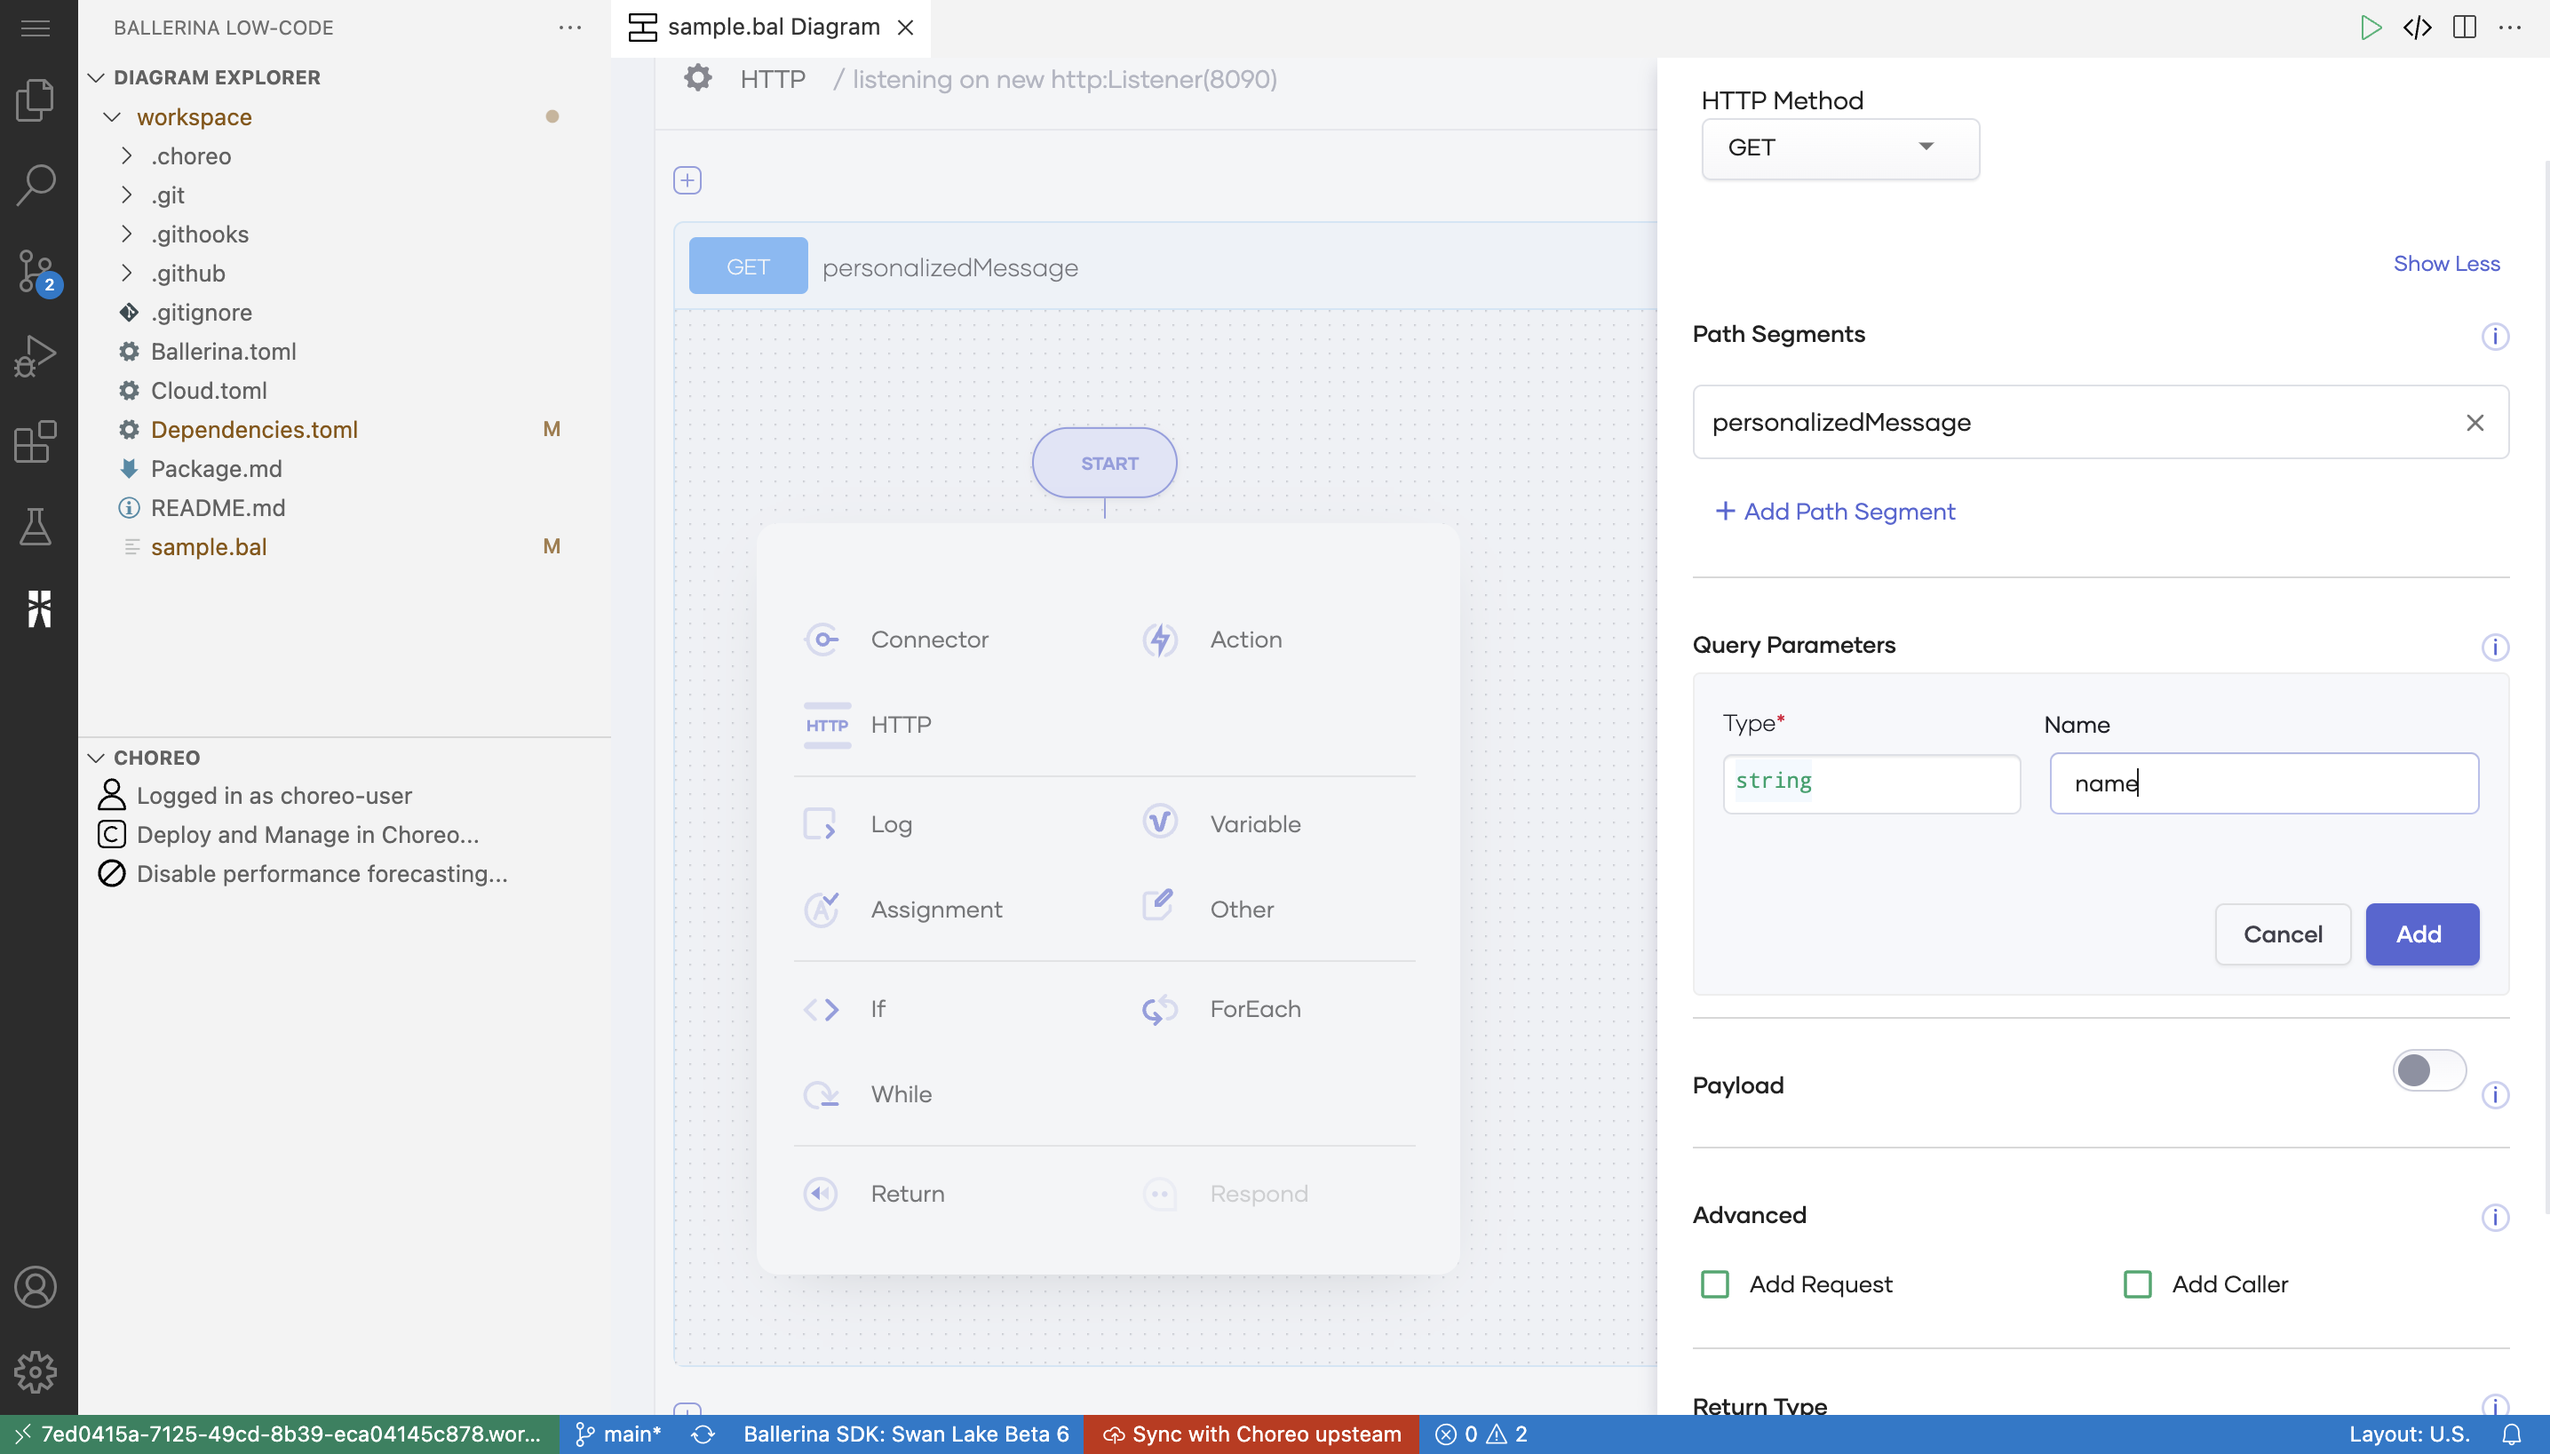
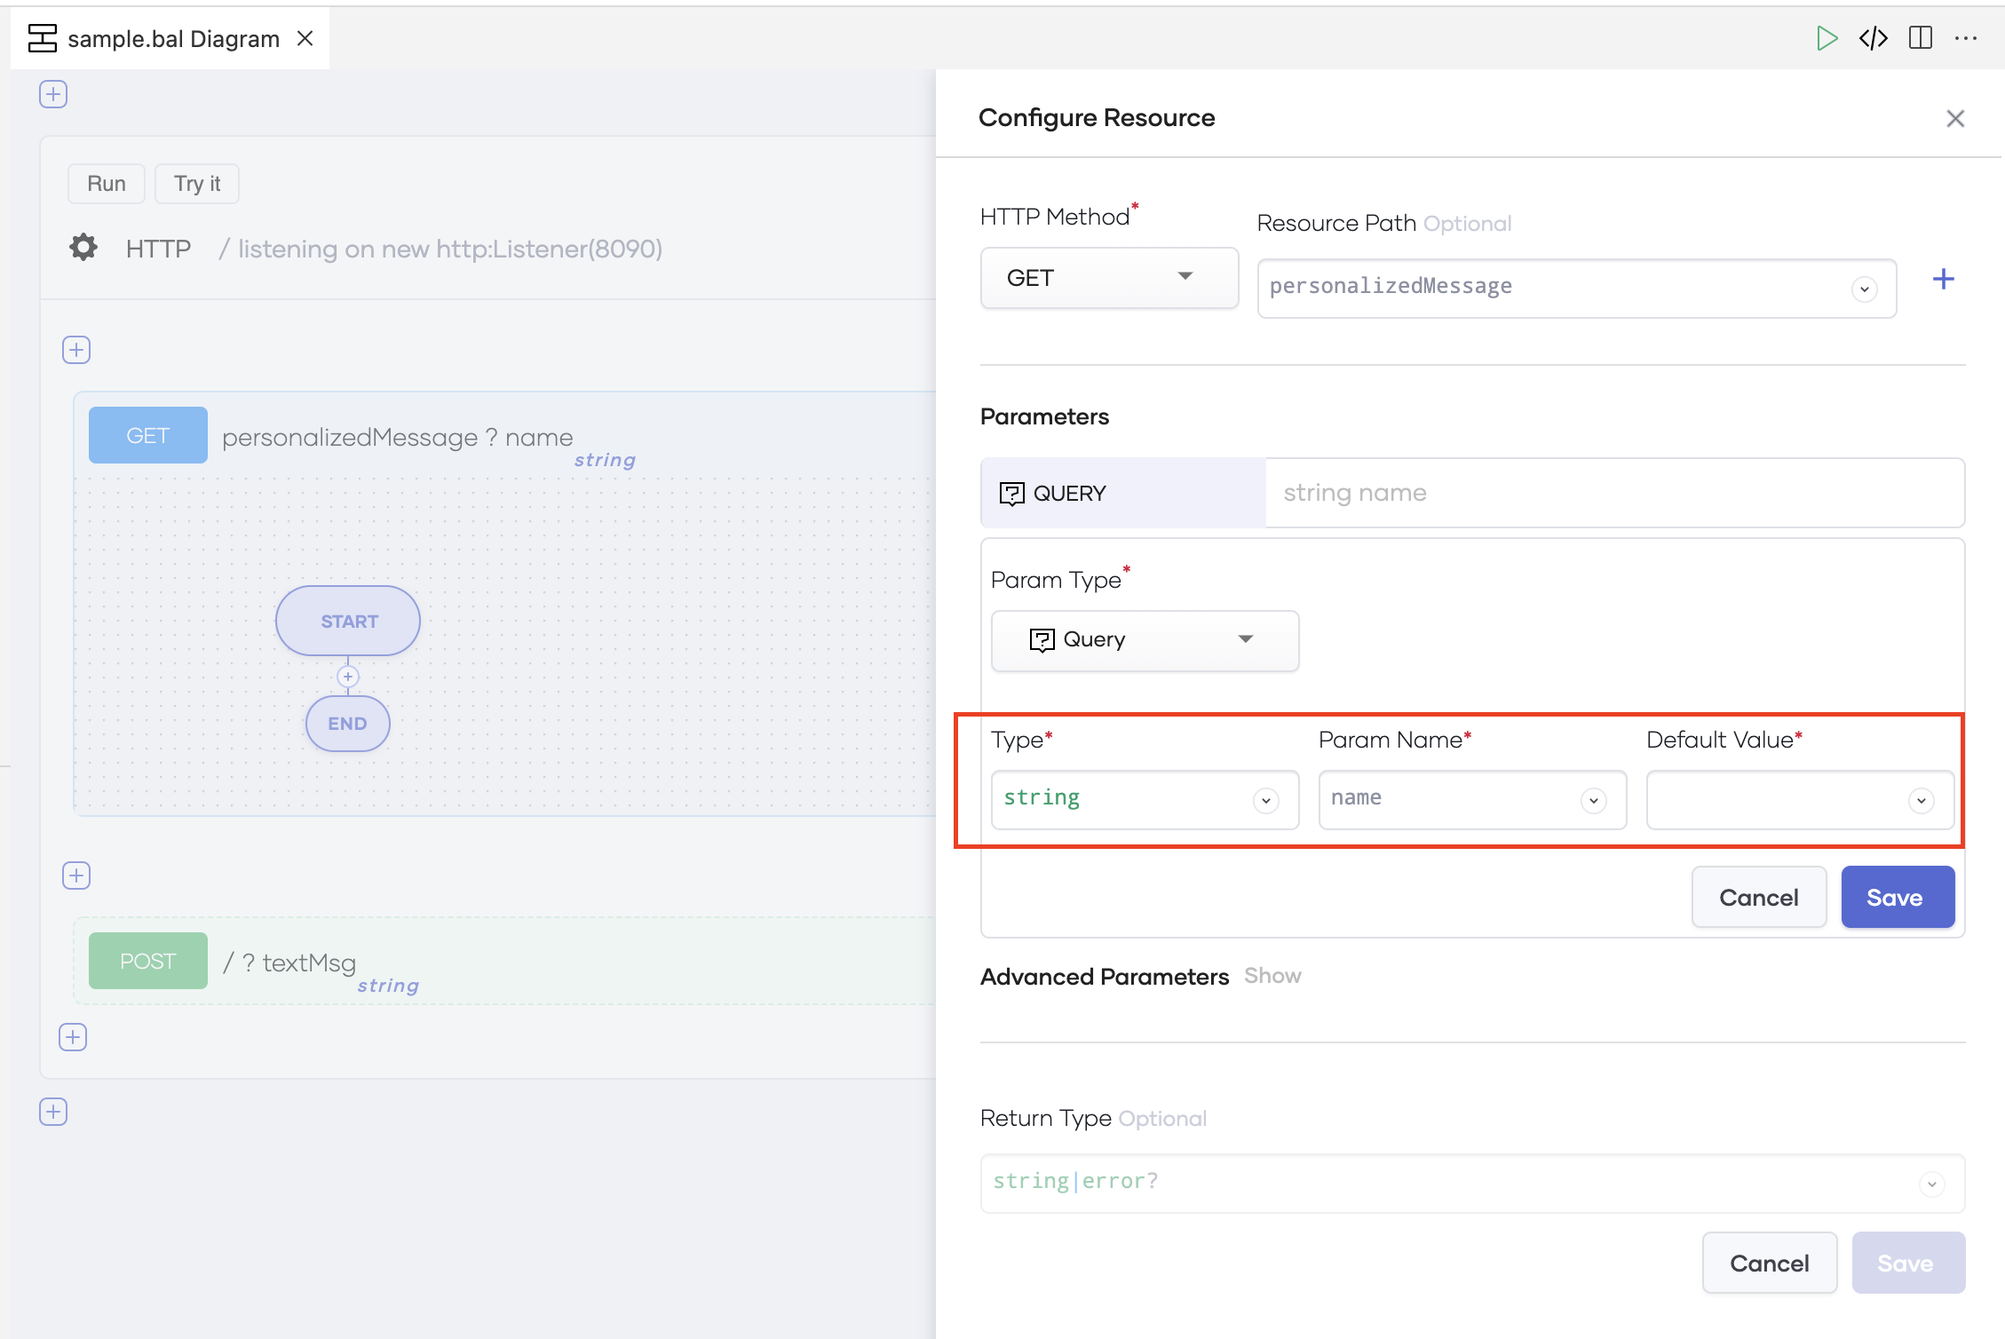
Update the Quick Start Guide based on the new Statement Editor

diff --git a/en/docs/get-started/quick-start-guide.md b/en/docs/get-started/quick-start-guide.md
@@ -83,7 +83,7 @@ Follow this procedure to further develop the API by adding a new resource and si
      | **Return Type** | `string|error` |
      
 
-4. Click **Advanced** and then click **+ Add Query Param** to add a query parameter with the following values to get a name as an input:
+4. Click **+ Add Query Param** to add a query parameter.  Enter the following values to get a name as an input:
 
      | **Field** | **Value** |
      |-----------------|-----------------------|
